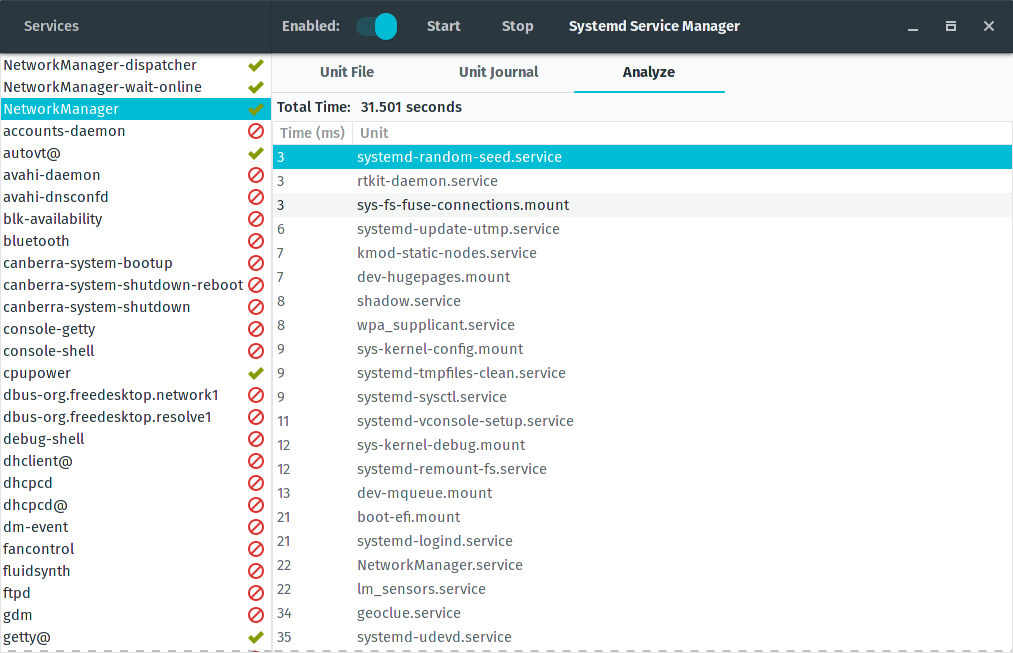
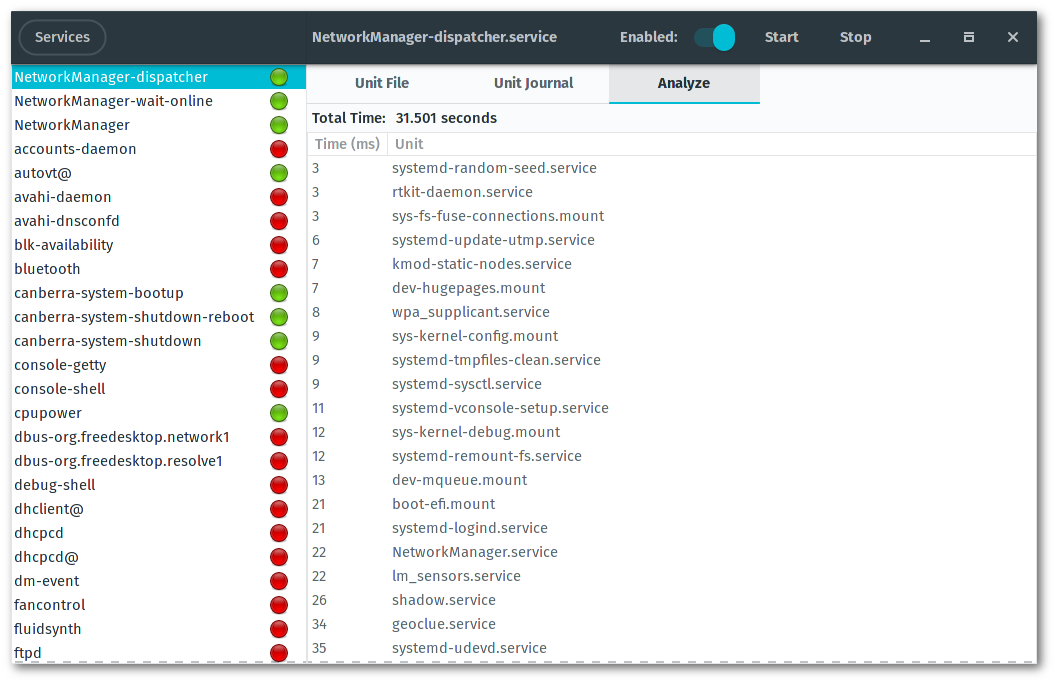
HeaderBar Improvements

Changed region(s): [[0.0, 0.0, 1.0, 1.0]]

diff --git a/src/systemd_gui.rs b/src/systemd_gui.rs
@@ -110,6 +110,7 @@ pub fn launch() {
     let timers_button: gtk::Button        = builder.get_object("timers_button").unwrap();
     let unit_journal: gtk::TextView       = builder.get_object("unit_journal_view").unwrap();
     let refresh_log_button: gtk::Button   = builder.get_object("refresh_log_button").unwrap();
+    let right_header: gtk::Label          = builder.get_object("header_service_label").unwrap();
 
     { // NOTE: Services Menu Button
         let label   = unit_menu_label.clone();
@@ -160,11 +161,12 @@ pub fn launch() {
     }
 
     {
-        let services       = services.clone();
-        let services_list  = services_list.clone();
-        let unit_info      = unit_info.clone();
+        let services        = services.clone();
+        let services_list   = services_list.clone();
+        let unit_info       = unit_info.clone();
         let ablement_switch = ablement_switch.clone();
-        let unit_journal = unit_journal.clone();
+        let unit_journal    = unit_journal.clone();
+        let header          = right_header.clone();
         services_list.connect_row_selected(move |_, row| {
             let index = row.clone().unwrap().get_index();
             let service = &services[index as usize];
@@ -173,6 +175,7 @@ pub fn launch() {
             ablement_switch.set_active(dbus::get_unit_file_state(service.name.as_str()));
             ablement_switch.set_state(ablement_switch.get_active());
             update_journal(&unit_journal, service.name.as_str());
+            header.set_label(get_filename(service.name.as_str()));
         });
     }
 
@@ -191,6 +194,7 @@ pub fn launch() {
         let unit_info       = unit_info.clone();
         let ablement_switch = ablement_switch.clone();
         let unit_journal = unit_journal.clone();
+        let header          = right_header.clone();
         sockets_list.connect_row_selected(move |_, row| {
             let index = row.clone().unwrap().get_index();
             let socket = &sockets[index as usize];
@@ -199,6 +203,7 @@ pub fn launch() {
             ablement_switch.set_active(dbus::get_unit_file_state(socket.name.as_str()));
             ablement_switch.set_state(true);
             update_journal(&unit_journal, socket.name.as_str());
+            header.set_label(get_filename(socket.name.as_str()));
         });
     }
 
@@ -217,6 +222,7 @@ pub fn launch() {
         let unit_info       = unit_info.clone();
         let ablement_switch = ablement_switch.clone();
         let unit_journal = unit_journal.clone();
+        let header          = right_header.clone();
         timers_list.connect_row_selected(move |_, row| {
             let index = row.clone().unwrap().get_index();
             let timer = &timers[index as usize];
@@ -225,6 +231,7 @@ pub fn launch() {
             ablement_switch.set_active(dbus::get_unit_file_state(timer.name.as_str()));
             ablement_switch.set_state(true);
             update_journal(&unit_journal, timer.name.as_str());
+            header.set_label(get_filename(timer.name.as_str()));
         });
     }
 
